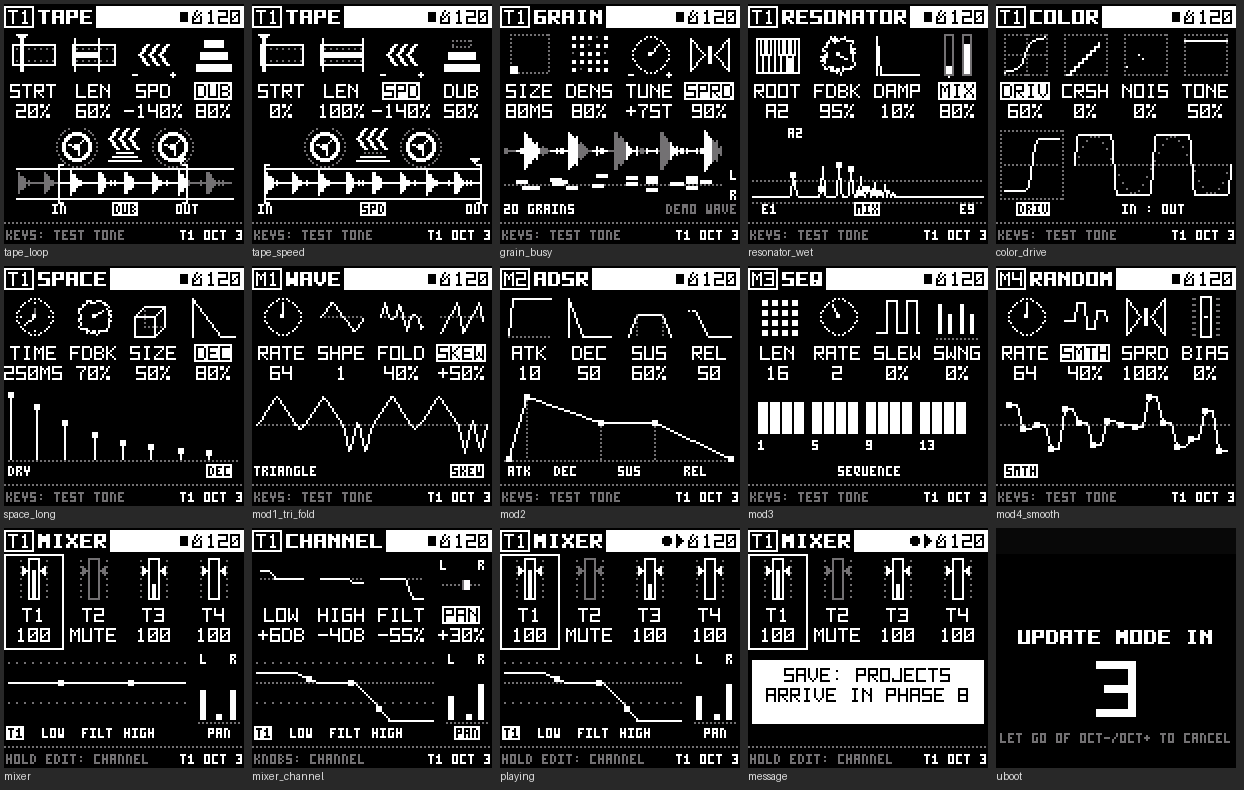
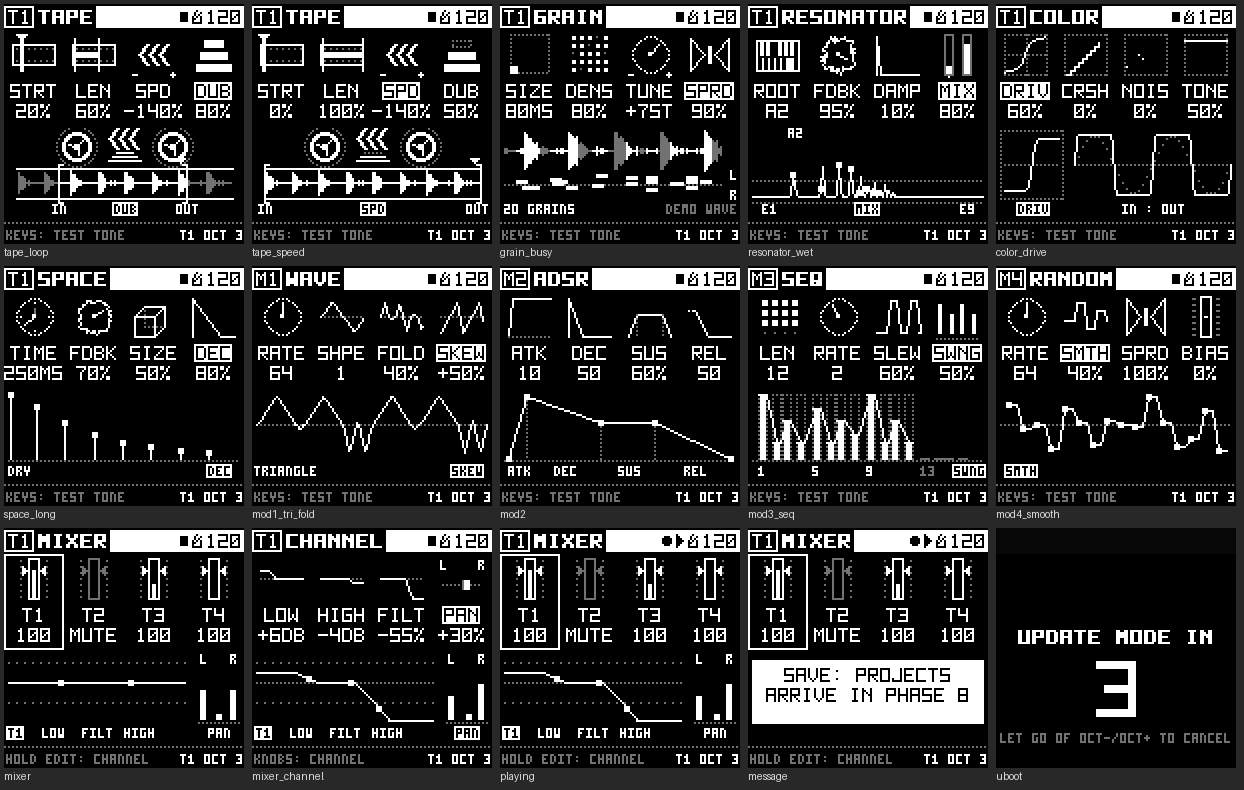
Bryo: SEQ shows its step values; a simpler ROOT keyboard
SEQ: each step is a bar as tall as its value with a cap, steps past LEN are dim
slots, SLEW draws the glide between values, SWING nudges the off-beats; the
repeated SEQUENCE text is gone (the last-turned knob is tagged at the right of
the step numbers). Each SEQ slot stores 16 step values (tp[].steps) with a
default pattern; per-step editing arrives with phase 7.

RESONATOR's ROOT pictogram: one outline, dividers, thin black keys, the root
key filled (a black root hollow).

Claude-Session: https://claude.ai/code/session_011E3mkWDTWqtPtt4Lk7Lgg8

Changed region(s): [[0.6109, 0.3646, 0.7942, 0.6076], [0.6109, 0.0304, 0.6415, 0.0911], [0.6109, 0.3949, 0.6415, 0.4253]]

diff --git a/bryo/firmware/src/ui_viz.c b/bryo/firmware/src/ui_viz.c
@@ -17,7 +17,8 @@
  *   COLOR      a sine through the device (dotted: in; solid: out); the inset follows the last-turned knob: the
  *              transfer curve (DRIVE, CRUSH), the noise (NOISE) or the tone filter (TONE)
  *   SPACE      the dry hit, the echoes as stems with nodes (TIME apart, falling by FDBK) and the reverb tail
- *   MOD slots  WAVE's shape, RANDOM's steps, ADSR's envelope with its stages named, SEQ's 16 steps
+ *   MOD slots  WAVE's shape, RANDOM's steps, ADSR's envelope with its stages named, SEQ's 16 steps as bars of
+ *              their values
  *   MIXER      the selected track's channel: EQ and filter as one response, the pan as two speakers
  *
  * The DSP of each device will use the same mappings as these pictures (the comments name them), so what is drawn
@@ -406,24 +407,38 @@ static void viz_adsr(const int16_t *v, uint32_t f)
 
 static void viz_seq(const int16_t *v, uint32_t f)
 {
-    /* the 16 steps in four groups of four (their values arrive with p-locks, phase 7); STEPS lit, SWING nudges the
-     * off-beats late, SLEW joins each step to the next */
-    int32_t k, bw = 5, gap = 1, gg = 3, y = 6, h = 16, sw = v[3] * 2 / 100;
+    /* the 16 steps in four groups of four, each a bar as tall as its value (tp[].steps, 0..100) with a node on
+     * top; the steps past LEN are their dotted slots only. SWING nudges the off-beats late; SLEW draws the glide
+     * from each step's value into the next. The step numbers sit under each group; the last-turned knob is named
+     * at the right of that row. */
+    const int8_t *st = tp[sys.sel].steps[ui.slot];
+    int32_t k, bw = 5, gap = 1, gg = 3, top = DY0 + 1, floor = DY1, h = floor - top, sw = v[3] * 2 / 100;
+    int32_t px = 0, py = 0;
+    px_line(DX0, floor + 1, DX1, floor + 1, px_dim, 2);
     for (k = 0; k < 16; k++) {
         int32_t x = DX0 + 3 + k * (bw + gap) + (k / 4) * gg + ((k & 1) ? sw : 0), on = k < v[0];
-        if (on)
-            px_box(x, y, bw, h, px_ink);
-        else
-            px_frame(x, y, bw, h, px_dim, 2);
-        if (on && v[2] && k + 1 < v[0])                                /* SLEW: a ramp into the next step */
-            px_line(x + bw, y + h - 1 - v[2] * (h - 2) / 100, x + bw + gap + ((k & 3) == 3 ? gg : 0), y, px_ink, 1);
+        int32_t y = floor - st[k] * h / 100;
+        if (on) {
+            px_frame(x, top, bw, h + 1, px_dim, 2);                    /* the step's range, dotted */
+            px_box(x + 1, y, bw - 2, floor - y + 1, px_ink);           /* its value */
+            px_box(x, y, bw, 1, px_ink);                               /* a cap as wide as the step */
+            if (v[2] && k)                                             /* SLEW: the glide from the last value */
+                px_line(px, py, x + v[2] * (bw - 1) / 100, y, px_ink, 1);
+            px = x + bw - 1;
+            py = y;
+        } else {
+            px_line(x, floor, x + bw - 1, floor, px_dim, 1);
+        }
         if ((k & 3) == 0) {
             char n[4];
             fmt_int(n, k + 1);
-            px_text(x, y + h + 3, PXF_3, n, px_ink);
+            px_text(x, DLBL, PXF_3, n, k < v[0] ? px_ink : px_dim);
         }
     }
-    vz_label(60, f == 0u ? "LEN" : f == 1u ? "RATE" : f == 2u ? "SLEW" : f == 3u ? "SWNG" : "SEQUENCE", f < 4u);
+    if (f < 4u) {
+        static const char *const L[4] = {"LEN", "RATE", "SLEW", "SWNG"};
+        px_tag(118 - px_text_w(PXF_3, L[f]) - 1, DLBL - 1, PXF_3, L[f], px_ink, px_bg);
+    }
 }
 
 /* ------------------------------------------------------------- MIXER --- */
@@ -515,6 +530,9 @@ static uint32_t viz_sig(void)
         ui_page(k, &vp);
         h = (h ^ (uint32_t)(*vp + 32768)) * 16777619u;
     }
+    if (ui.kind == FOCUS_SLOT && tp[sys.sel].engine[ui.slot] == ME_SEQ)   /* SEQ draws its step values */
+        for (k = 0; k < 16u; k++)
+            h = (h ^ (uint32_t)(uint8_t)tp[sys.sel].steps[ui.slot][k]) * 16777619u;
     if (ui.kind == FOCUS_DEV && ui.dev == DEV_GRAIN)                   /* GRAIN draws TAPE's loop window too */
         h = (h ^ (uint32_t)(tp[sys.sel].dev[DEV_SRC][0] << 8 | tp[sys.sel].dev[DEV_SRC][1])) * 16777619u;
     return h + (ui.kind == FOCUS_SLOT ? tp[sys.sel].engine[ui.slot] * 65537u : 0u);

diff --git a/bryo/firmware/src/ui_px.c b/bryo/firmware/src/ui_px.c
@@ -566,24 +566,25 @@ static void px_picto(uint32_t kind, int32_t x, int32_t y, const pdesc_t *d, int3
         px_box(p - 1, cy + 1, 3, 5, c);
         break;
     }
-    case PK_KEYS: {                                      /* an octave of keys with the root lit */
+    case PK_KEYS: {                                      /* an octave: one outline, the dividers, the root marked */
+        /* 7 white keys of 3 dots in one frame, black keys as solid blocks over the dividers; the root is a solid
+         * foot on its white key, or a black key drawn hollow. Fewer strokes than a key-by-key drawing, so it reads
+         * at this size. */
         static const int8_t WHITE[12] = {0, -1, 1, -1, 2, 3, -1, 4, -1, 5, -1, 6};
-        static const int8_t BLACK_AT[5] = {0, 1, 3, 4, 5};   /* the white key each black one follows */
-        static const int8_t BLACK_N[5] = {1, 3, 6, 8, 10};
+        static const int8_t BLACK_X[12] = {-1, 3, -1, 6, -1, -1, 12, -1, 15, -1, 18, -1};   /* the block's x */
         int32_t n = (int32_t)((uint32_t)v % 12u), k;
-        for (k = 0; k < 7; k++) {
-            px_frame(x + k * 3, y + 2, 4, 18, c, 1);
-            if (WHITE[n] == k)
-                px_box(x + k * 3 + 1, y + 12, 2, 7, c);
-        }
-        for (k = 0; k < 5; k++) {
-            int32_t bx = x + BLACK_AT[k] * 3 + 2;
-            px_box(bx, y + 2, 3, 9, px_bg);
-            if (BLACK_N[k] == n)
-                px_box(bx, y + 2, 3, 9, c);
-            else
-                px_frame(bx, y + 2, 3, 9, c, 1);
-        }
+        px_frame(x, y + 3, 22, 16, c, 1);
+        for (k = 1; k < 7; k++)
+            px_line(x + k * 3, y + 12, x + k * 3, y + 17, c, 1);
+        for (k = 0; k < 12; k++)
+            if (BLACK_X[k] >= 0) {
+                if (k == n)                              /* the root, black: hollow, a dot under it */
+                    px_frame(x + BLACK_X[k] - 1, y + 3, 3, 9, c, 1);
+                else
+                    px_box(x + BLACK_X[k] - 1, y + 3, 2, 8, c);
+            }
+        if (WHITE[n] >= 0)                               /* the root, white: the key filled under the black ones */
+            px_box(x + WHITE[n] * 3 + 1, y + 12, 2, 6, c);
         break;
     }
     }

diff --git a/bryo/firmware/src/param.c b/bryo/firmware/src/param.c
@@ -56,6 +56,10 @@ static const pdesc_t ME_P[NME][4] = {
     {{"ATK", 0, 127, 10, F_NUM}, {"DEC", 0, 127, 50, F_NUM}, {"SUS", 0, 100, 60, F_PCT}, {"REL", 0, 127, 50, F_NUM}},
     {{"LEN", 1, 16, 16, F_NUM}, {"RATE", 0, 5, 2, F_NUM}, {"SLEW", 0, 100, 0, F_PCT}, {"SWNG", 0, 100, 0, F_PCT}},
 };
+/* a SEQ slot's steps before you set them: a pattern with an accent on each beat, so the page shows the idea
+ * (the slot's depth is 0 until it's assigned, so this moves nothing) */
+static const int8_t SEQ_DEF[16] = {100, 25, 60, 25, 80, 25, 60, 40, 100, 25, 60, 25, 80, 50, 35, 20};
+
 /* the slots' default engines: the pads are labelled LFO ENV SEQ ARP (PRD 2.2) */
 static const uint8_t SLOT_DEF_ENGINE[NSLOT] = {ME_WAVE, ME_ADSR, ME_SEQ, ME_RANDOM};
 
@@ -64,6 +68,7 @@ typedef struct {
     uint8_t engine[NSLOT];       /* the engine each slot runs */
     int16_t mod[NSLOT][4];       /* the slot's own knobs */
     int16_t ch[NCH];             /* the channel strip */
+    int8_t steps[NSLOT][16];     /* a SEQ slot's step values, 0..100 (set per step from phase 7: slot + key + knob) */
 } track_params_t;
 static track_params_t tp[NTRK];
 
@@ -78,6 +83,8 @@ static void param_defaults(void)
             tp[t].ch[k] = CH_P[k].def;
         for (s = 0; s < NSLOT; s++) {
             tp[t].engine[s] = SLOT_DEF_ENGINE[s];
+            for (k = 0; k < 16u; k++)
+                tp[t].steps[s][k] = SEQ_DEF[k];
             for (k = 0; k < 4u; k++)
                 tp[t].mod[s][k] = ME_P[SLOT_DEF_ENGINE[s]][k].def;
         }

diff --git a/bryo/tests/bryo_host.c b/bryo/tests/bryo_host.c
@@ -416,6 +416,11 @@ static void screens_in(const char *pal)
     turn(2, 40);
     turn(3, 50);
     shot(pal, "mod1_tri_fold");
+    press(B_SEQ);
+    turn(0, -4);                                         /* SEQ: LEN 12, SLEW 60, SWING 50 */
+    turn(2, 60);
+    turn(3, 50);
+    shot(pal, "mod3_seq");
     press(B_ARP);
     turn(1, 40);                                         /* RANDOM: SMOOTH 40 */
     shot(pal, "mod4_smooth");

diff --git a/bryo/docs/bryo-architecture.md b/bryo/docs/bryo-architecture.md
@@ -379,6 +379,13 @@ After phase 1, two changes to the screen, from your review:
   The values live per track in `tp[].ch` (`firmware/src/param.c`) and the curve is `ch_resp()` in
   `firmware/src/ui_px.c`, which is the response the mixer DSP will apply in phase 6. The PRD's master
   compressor, which the old plan had on this page, still needs a home; I left it for phase 6.
+- **SEQ shows its steps' values, and the keyboard got simpler.** The SEQ page drew 16 identical blocks with the word
+  SEQUENCE under them, which said nothing the header didn't. Now each step is a bar as tall as its value, with
+  the steps past LEN left as dim slots, SLEW drawn as the glide between values and SWING nudging the off-beats.
+  For that the slot needs values, so each SEQ slot stores 16 (`tp[].steps`, 0..100) with a default pattern that
+  accents the beats; it moves nothing until the slot is assigned a depth, and setting a step's value (hold the
+  slot, hold a white key, turn a knob) arrives with phase 7. RESONATOR's ROOT pictogram is now one outline with
+  dividers and thin black keys, the root key filled (or a black one hollow), instead of a key-by-key drawing.
 
 The controls are mapped in `docs/controls.tsv` (one row per context, control and gesture, with status and
 phase), validated by `tests/controls_check.py`, which also fails if a physical control goes unmentioned.
